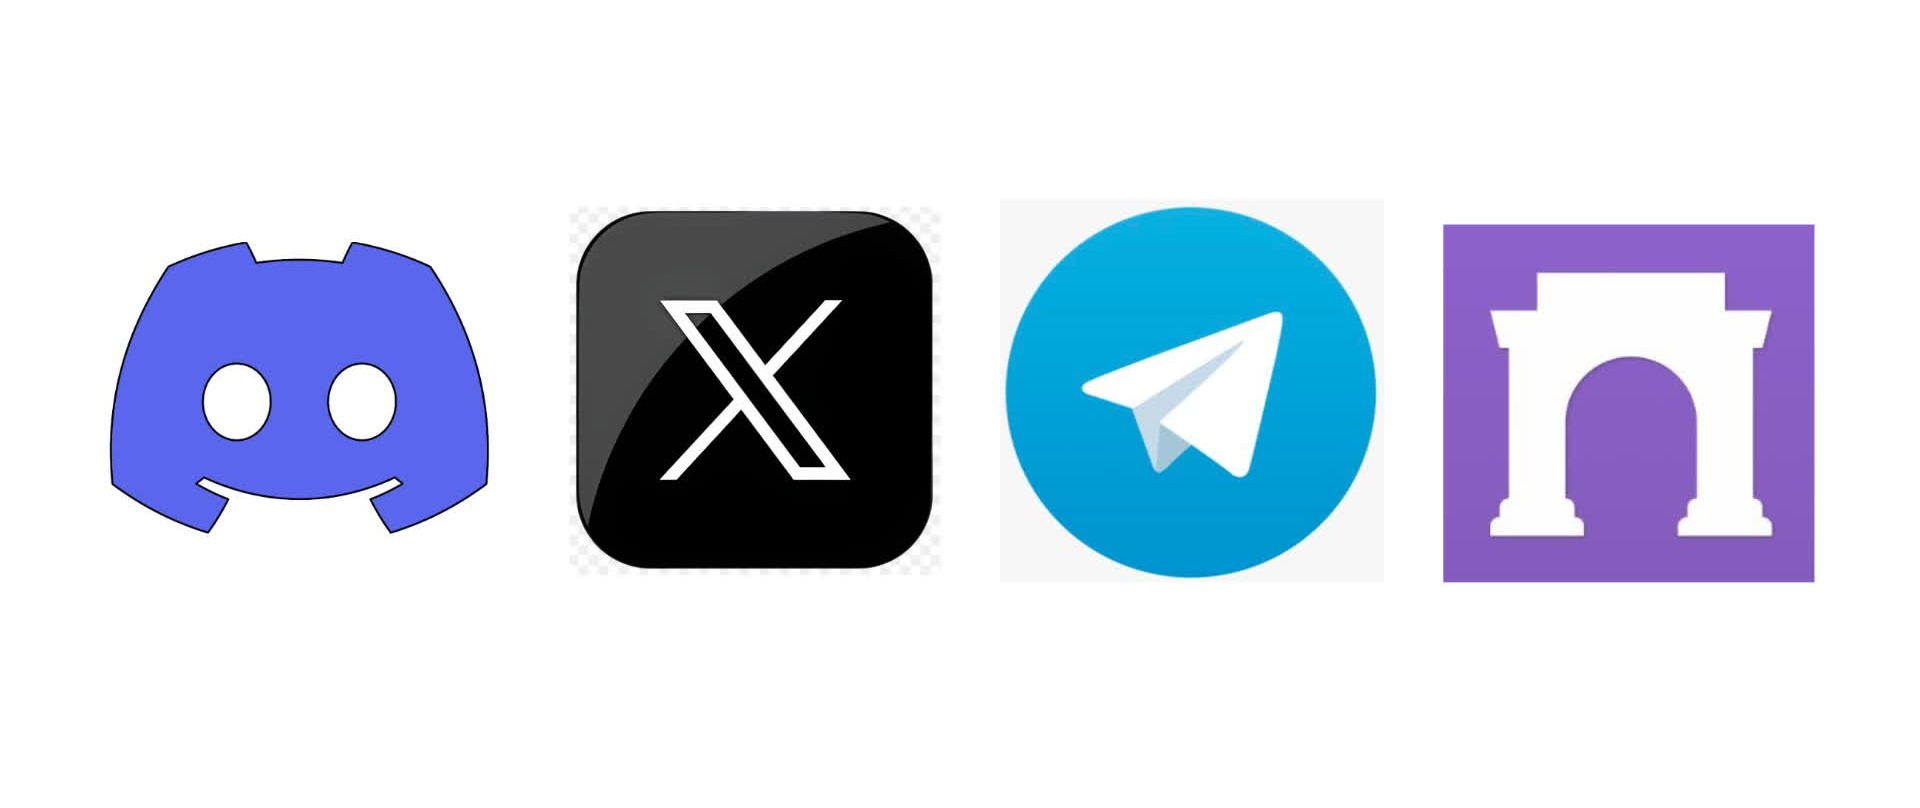
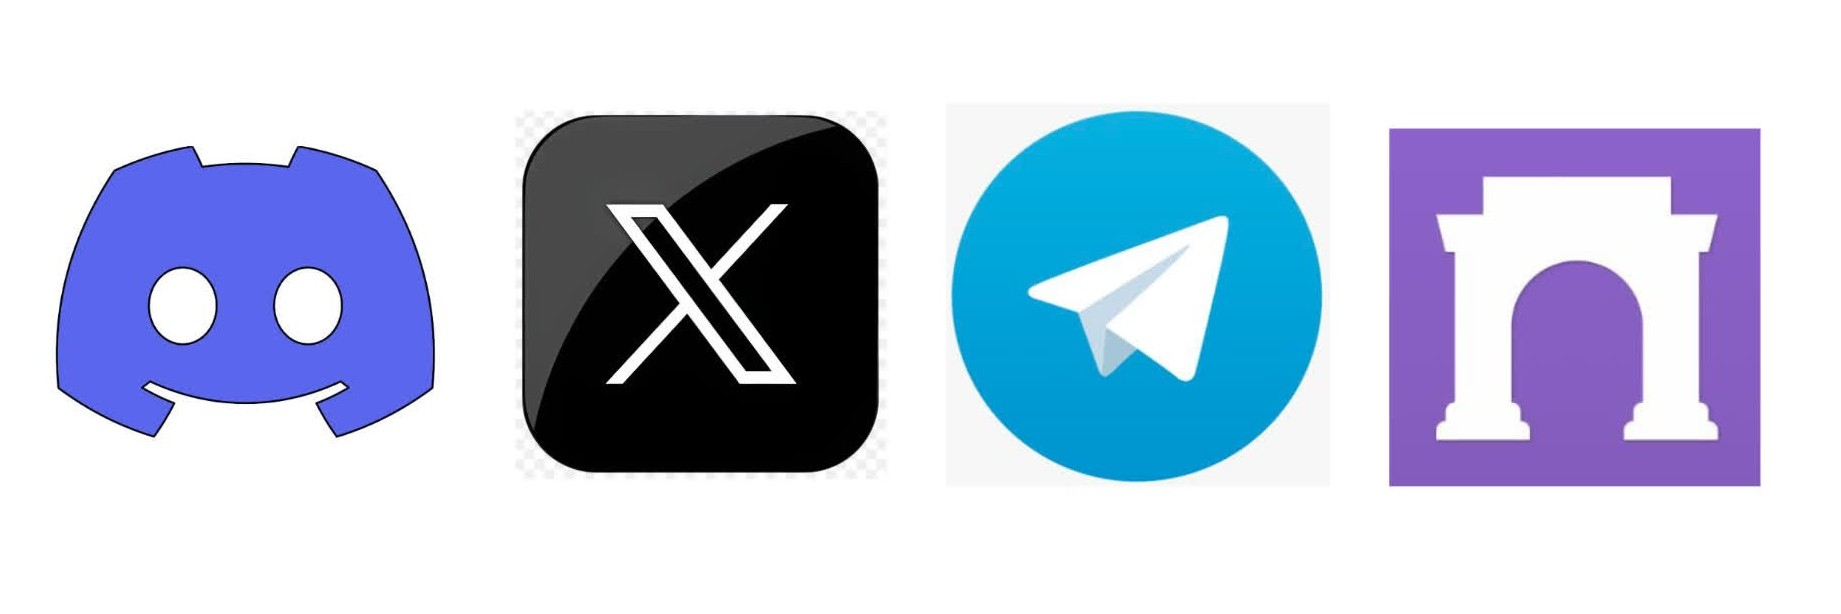
update socials

Changed region(s): [[0.031, 0.1547, 0.7121, 0.8046], [0.7121, 0.1857, 0.9598, 0.8046]]

diff --git a/docs/guides/agents.md b/docs/guides/agents.md
@@ -97,10 +97,9 @@ All these tools are available by just asking your agent to do something:
 :::info
 Agent export to social platforms is in beta. If you're interested in testing it now, please reach out to the devs on [Discord](https://discord.com/invite/4dSYwDT).
 :::info
-<div style={{ width: '60%', margin: '0 auto' }}>
+Not only can our agents interact with your audience, they have full access to all of Eden's creative tools, your custom models and can even generate fully animated short-movies with sound effects and music!
+<div style={{ width: '50%', margin: '0 auto' }}>
   <Figure src="/img/socials.jpg" caption="Eden supports running Discord and Telegram clients for your agents, as well as interacting with X and Farcaster." />
 </div>
-
-Not only can our agents interact with your audience, they have full access to all of Eden's creative tools, your custom models and can even generate fully animated short-movies with sound effects and music!
 
 As an example, [**Abraham**](https://x.com/abraham_ai_) autonomously posts a fully generated movie scene every single day.
